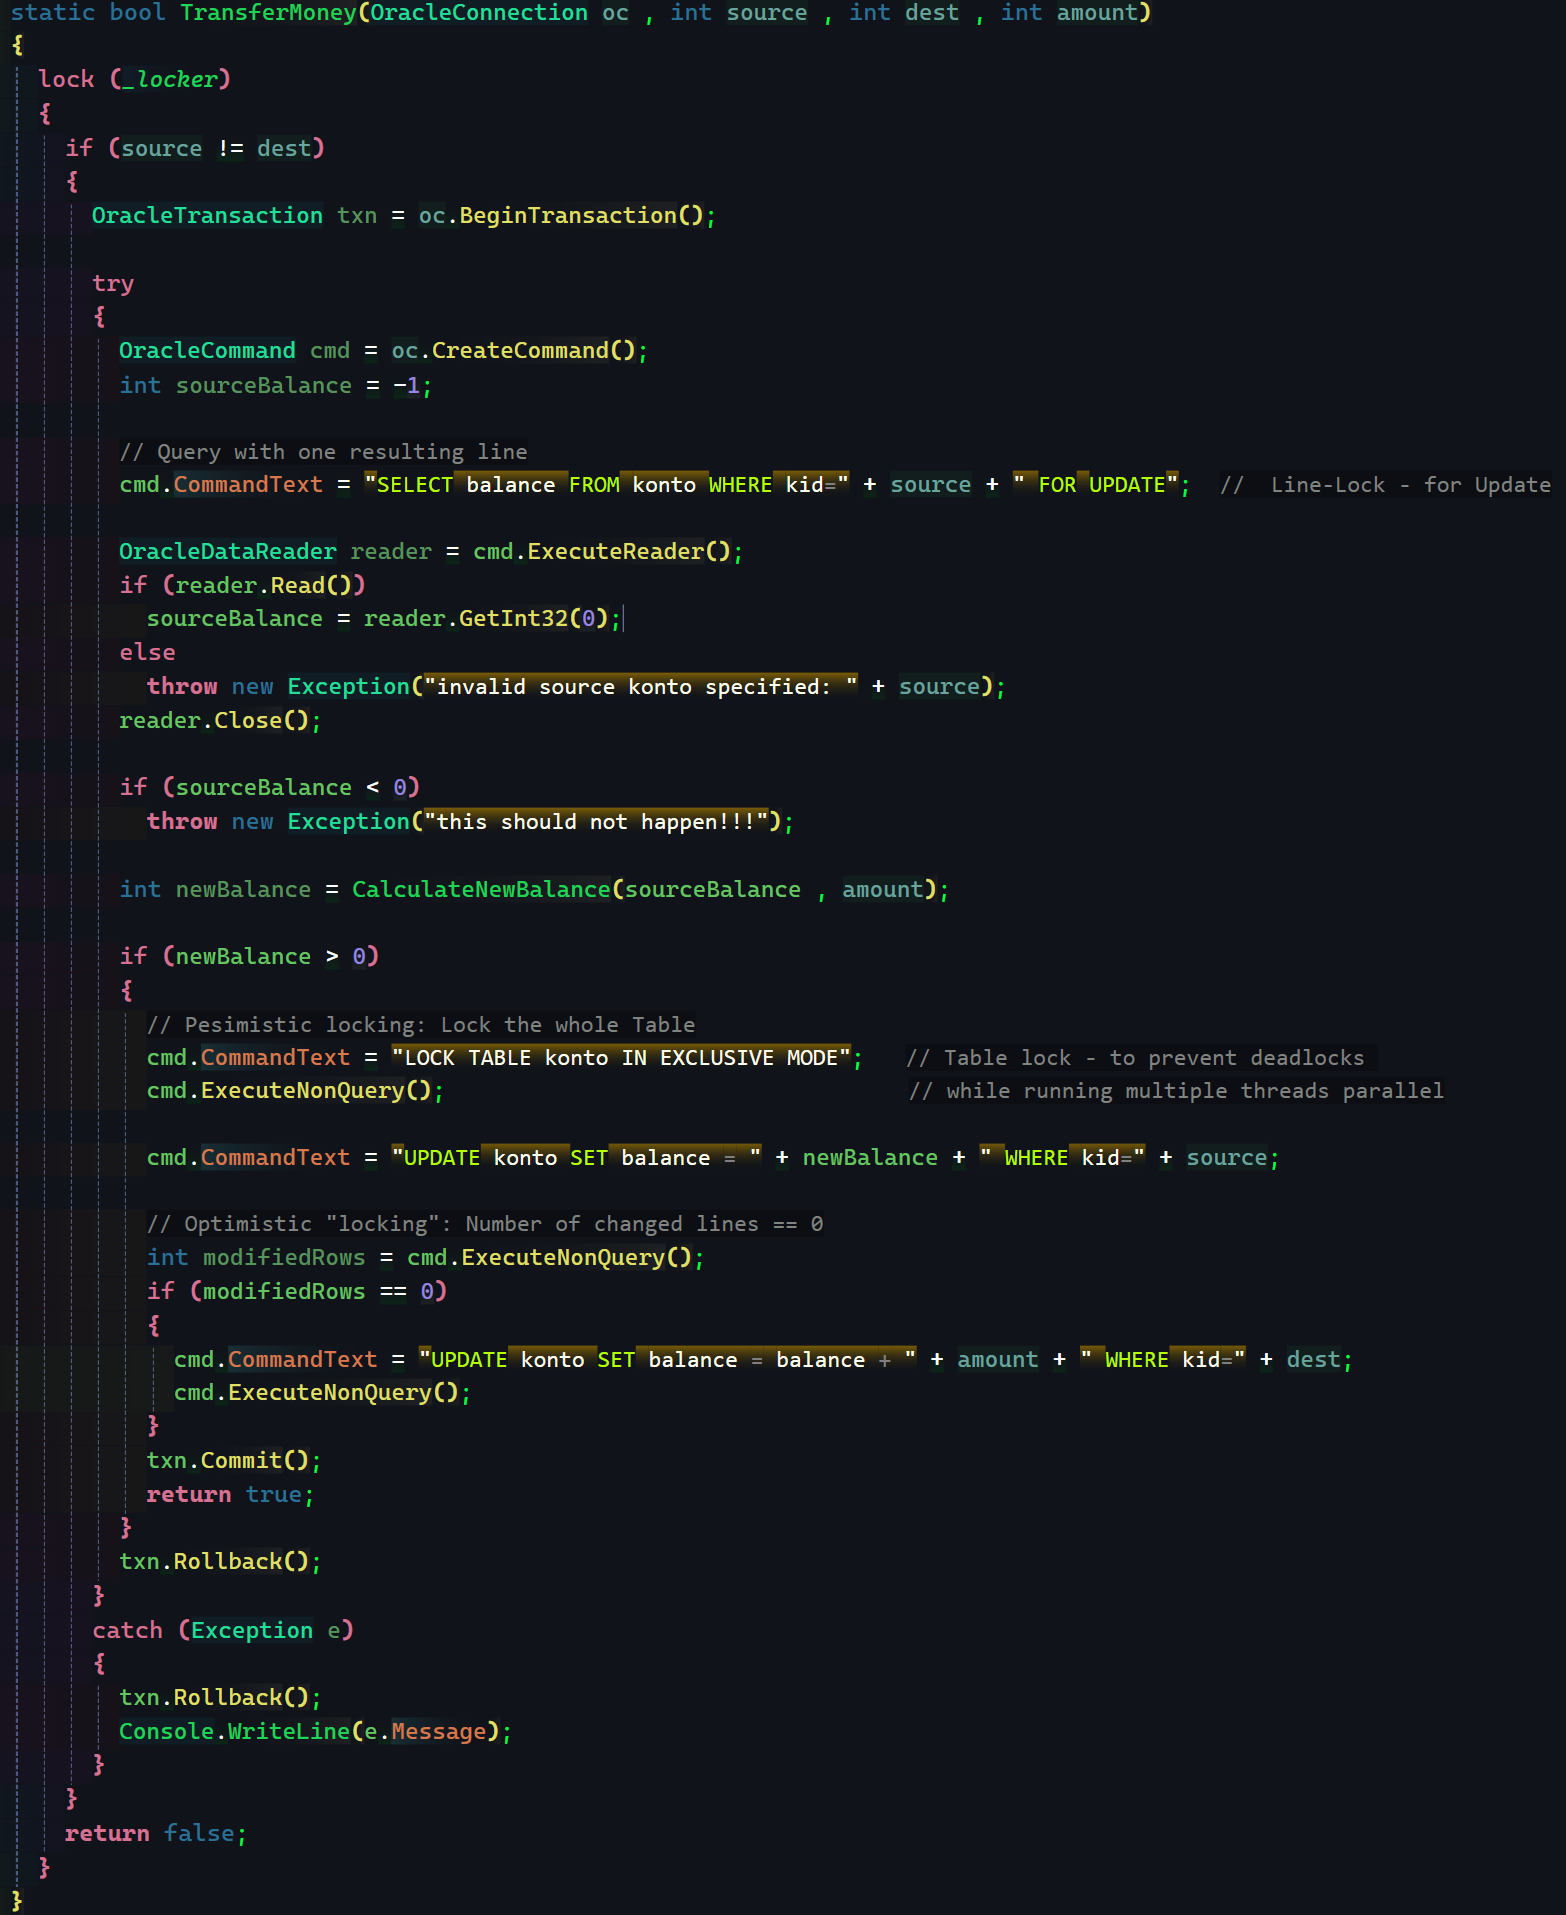
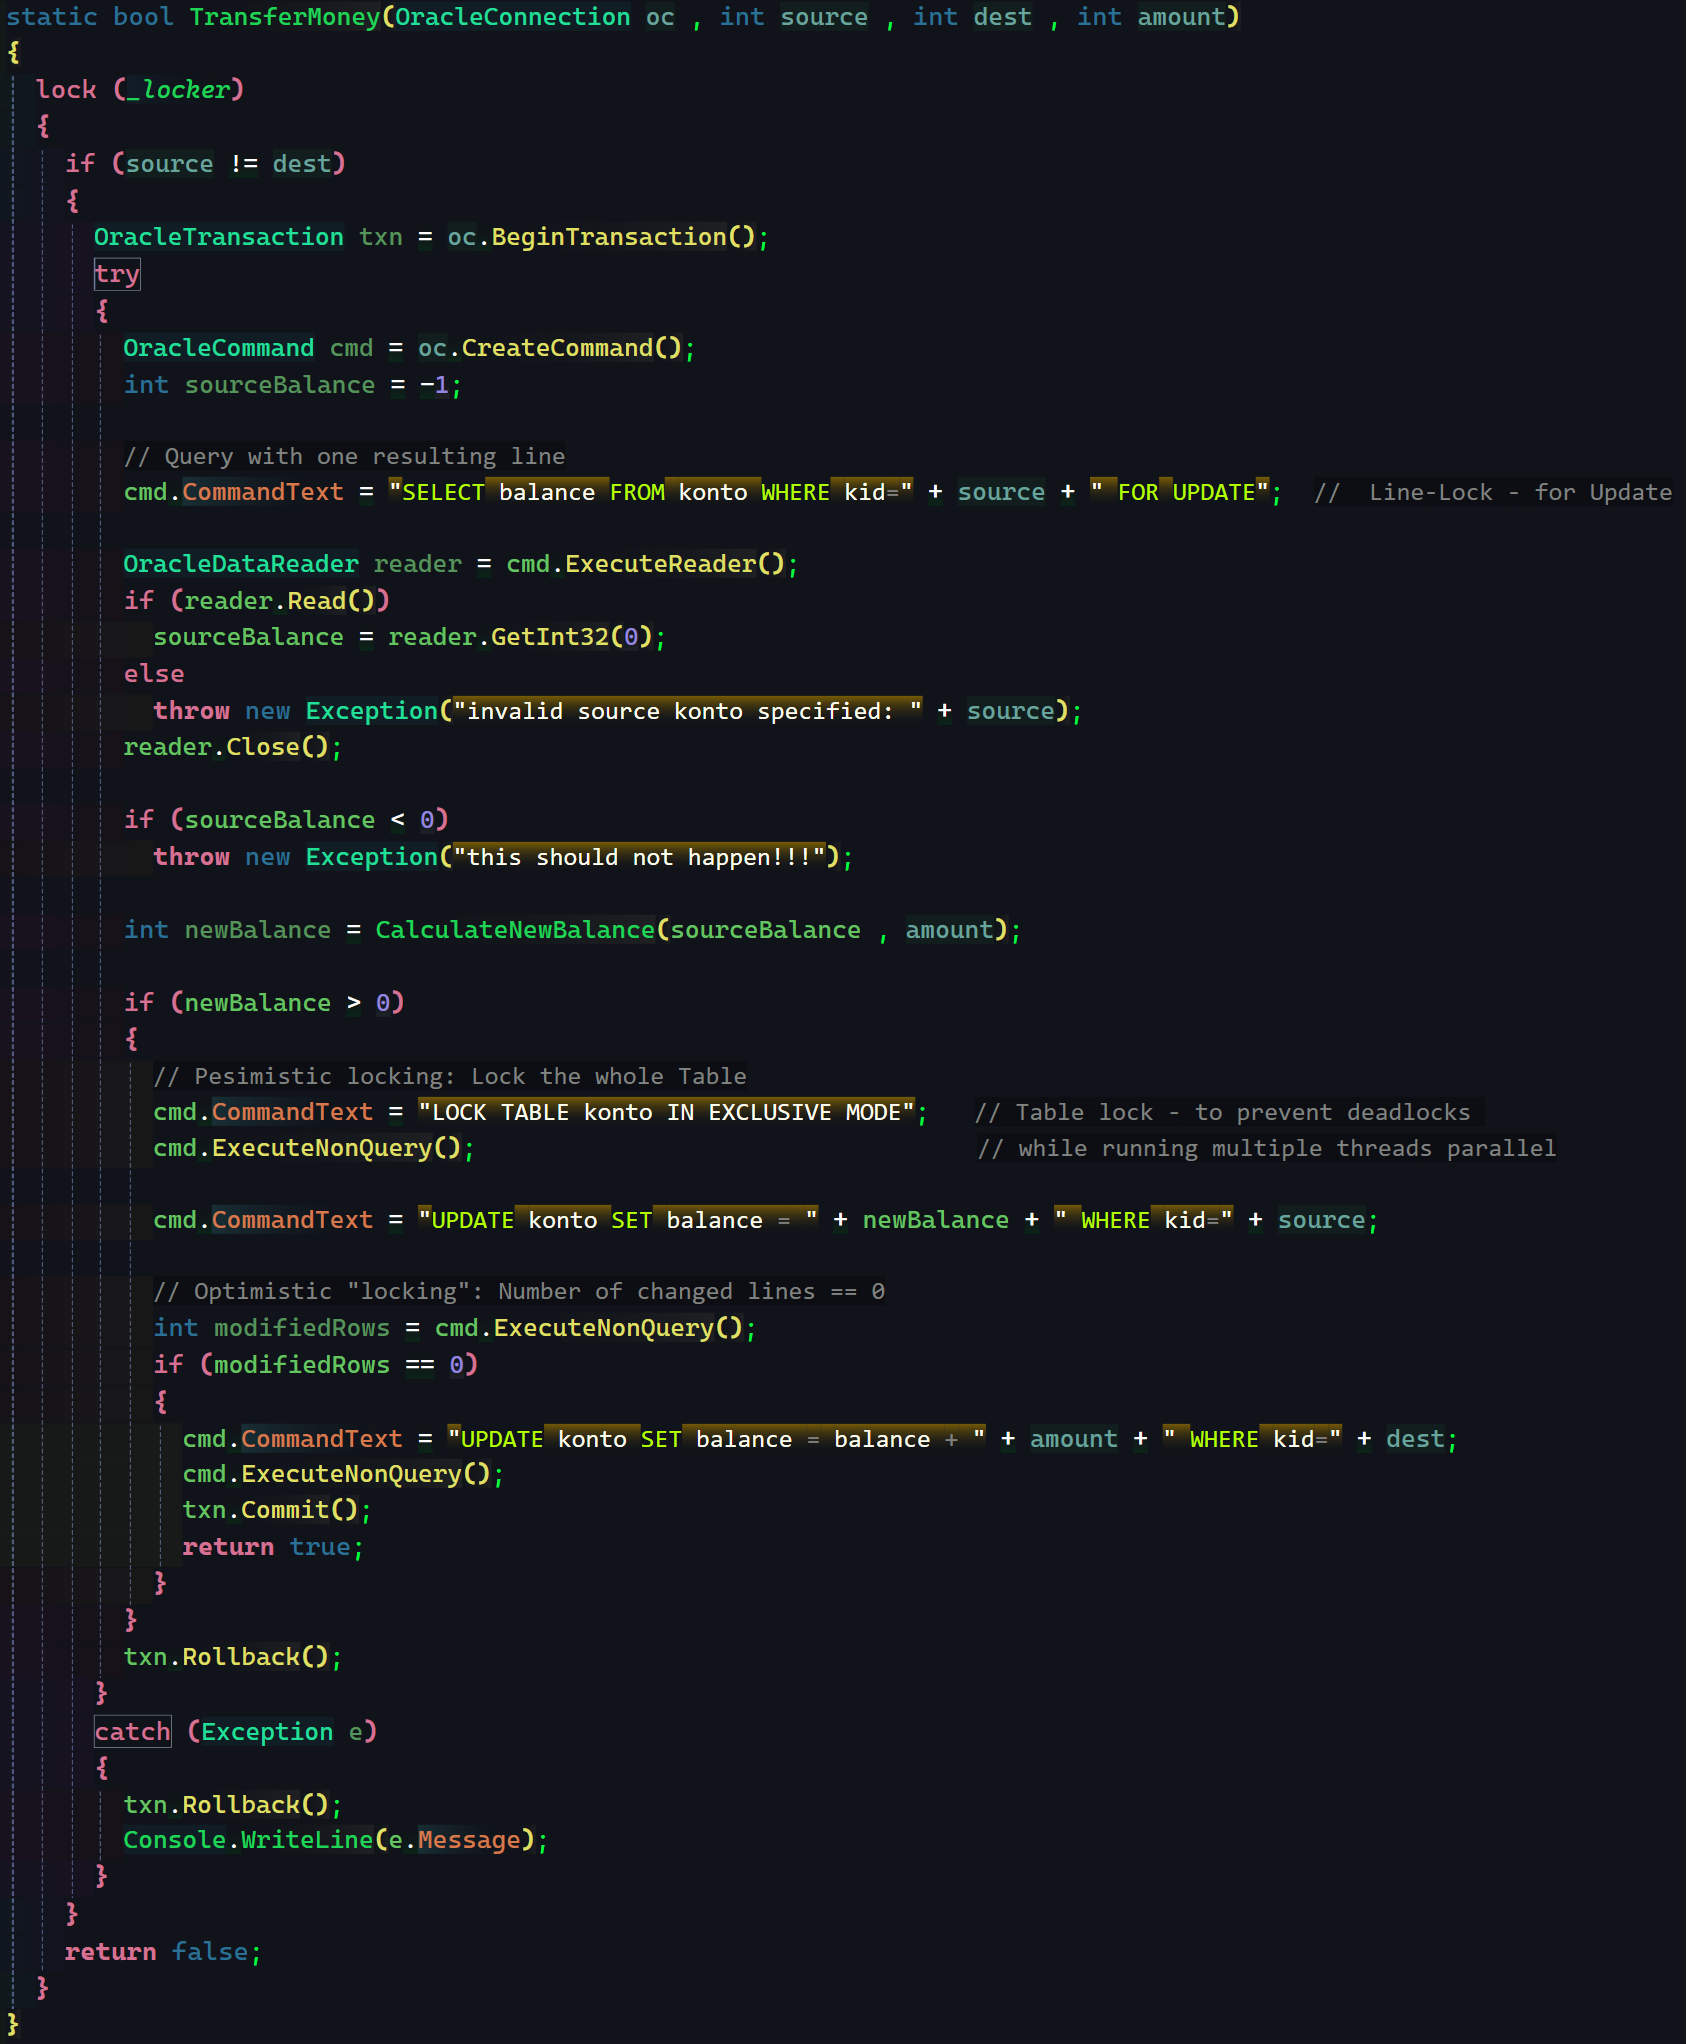
commit SQL statement only if optimistic locking allows it

diff --git a/EntityFramework.ConApp/Program.cs b/EntityFramework.ConApp/Program.cs
@@ -164,7 +164,6 @@ internal class Program
       if (source != dest)
       {
         OracleTransaction txn = oc.BeginTransaction();
-
         try
         {
           OracleCommand cmd = oc.CreateCommand();
@@ -199,9 +198,9 @@ internal class Program
             {
               cmd.CommandText = "UPDATE konto SET balance = balance + " + amount + " WHERE kid=" + dest;
               cmd.ExecuteNonQuery();
+              txn.Commit();
+              return true;
             }
-            txn.Commit();
-            return true;
           }
           txn.Rollback();
         }

diff --git a/README.md b/README.md
@@ -40,4 +40,4 @@
 
 --- 
 > ###### Main calculation  
-![alt text](image-6.png)  
+![actualCalculation](image-6.png)
